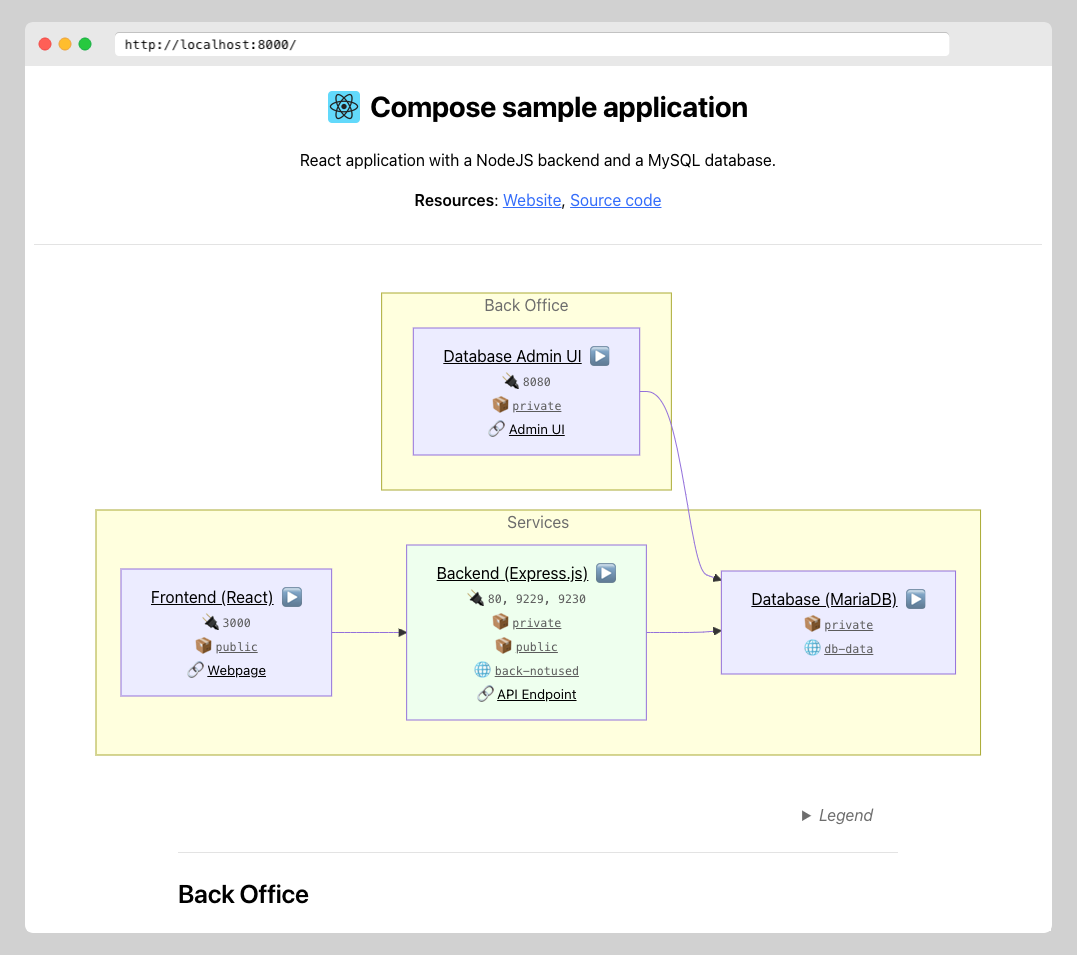
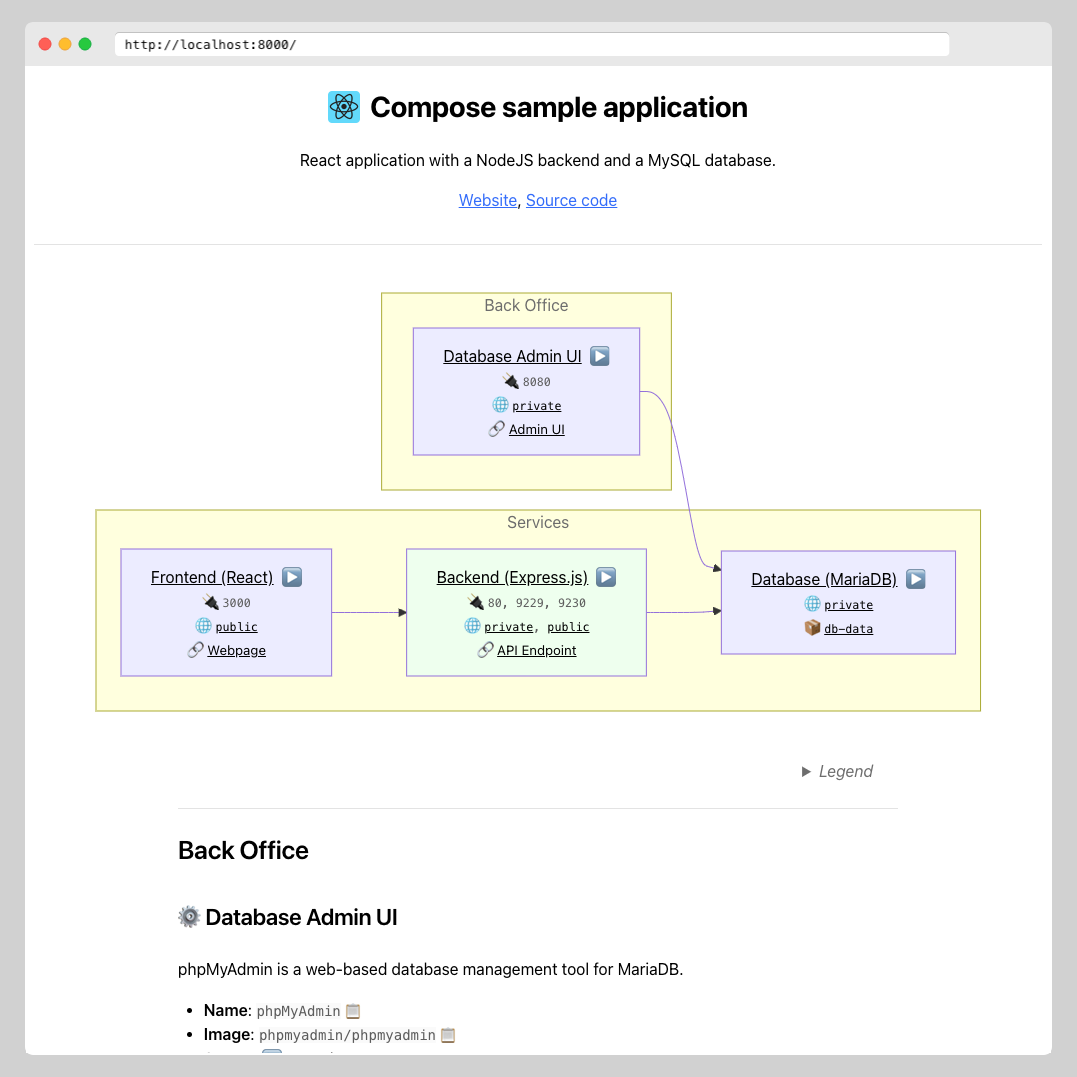
Improved example with larger screenshot.

diff --git a/examples/react-express-mysql/laebel-output.html b/examples/react-express-mysql/laebel-output.html
@@ -17,7 +17,6 @@
         <p>React application with a NodeJS backend and a MySQL database.</p>
         
             <p>
-                <strong>Resources</strong>:
                 <a href="https://docs.docker.com/compose/support-and-feedback/samples-for-compose/">Website</a>,
                 <a href="https://github.com/docker/awesome-compose/tree/master/react-express-mysql">Source code</a>
             </p>
@@ -41,7 +40,7 @@
         
             <section id="graph" hx-trigger="sse:reload" hx-get="/graph.mmd" hx-swap="none" hx-target=".mermaid">
                 
-<pre class="mermaid" data-processed="true"><svg aria-roledescription="flowchart-v2" role="graphics-document document" viewBox="0 0 904.3833618164062 477" style="max-width: 904.3833618164062px;" class="flowchart" xlink="http://www.w3.org/1999/xlink" xmlns="http://www.w3.org/2000/svg" width="100%" id="mermaid-1740960671856"><style>#mermaid-1740960671856{font-family:system-ui,sans-serif;font-size:16px;fill:#333;}#mermaid-1740960671856 .error-icon{fill:#552222;}#mermaid-1740960671856 .error-text{fill:#552222;stroke:#552222;}#mermaid-1740960671856 .edge-thickness-normal{stroke-width:1px;}#mermaid-1740960671856 .edge-thickness-thick{stroke-width:3.5px;}#mermaid-1740960671856 .edge-pattern-solid{stroke-dasharray:0;}#mermaid-1740960671856 .edge-thickness-invisible{stroke-width:0;fill:none;}#mermaid-1740960671856 .edge-pattern-dashed{stroke-dasharray:3;}#mermaid-1740960671856 .edge-pattern-dotted{stroke-dasharray:2;}#mermaid-1740960671856 .marker{fill:#333333;stroke:#333333;}#mermaid-1740960671856 .marker.cross{stroke:#333333;}#mermaid-1740960671856 svg{font-family:system-ui,sans-serif;font-size:16px;}#mermaid-1740960671856 p{margin:0;}#mermaid-1740960671856 .label{font-family:system-ui,sans-serif;color:#333;}#mermaid-1740960671856 .cluster-label text{fill:#333;}#mermaid-1740960671856 .cluster-label span{color:#333;}#mermaid-1740960671856 .cluster-label span p{background-color:transparent;}#mermaid-1740960671856 .label text,#mermaid-1740960671856 span{fill:#333;color:#333;}#mermaid-1740960671856 .node rect,#mermaid-1740960671856 .node circle,#mermaid-1740960671856 .node ellipse,#mermaid-1740960671856 .node polygon,#mermaid-1740960671856 .node path{fill:#ECECFF;stroke:#9370DB;stroke-width:1px;}#mermaid-1740960671856 .rough-node .label text,#mermaid-1740960671856 .node .label text,#mermaid-1740960671856 .image-shape .label,#mermaid-1740960671856 .icon-shape .label{text-anchor:middle;}#mermaid-1740960671856 .node .katex path{fill:#000;stroke:#000;stroke-width:1px;}#mermaid-1740960671856 .rough-node .label,#mermaid-1740960671856 .node .label,#mermaid-1740960671856 .image-shape .label,#mermaid-1740960671856 .icon-shape .label{text-align:center;}#mermaid-1740960671856 .node.clickable{cursor:pointer;}#mermaid-1740960671856 .root .anchor path{fill:#333333!important;stroke-width:0;stroke:#333333;}#mermaid-1740960671856 .arrowheadPath{fill:#333333;}#mermaid-1740960671856 .edgePath .path{stroke:#333333;stroke-width:2.0px;}#mermaid-1740960671856 .flowchart-link{stroke:#333333;fill:none;}#mermaid-1740960671856 .edgeLabel{background-color:rgba(232,232,232, 0.8);text-align:center;}#mermaid-1740960671856 .edgeLabel p{background-color:rgba(232,232,232, 0.8);}#mermaid-1740960671856 .edgeLabel rect{opacity:0.5;background-color:rgba(232,232,232, 0.8);fill:rgba(232,232,232, 0.8);}#mermaid-1740960671856 .labelBkg{background-color:rgba(232, 232, 232, 0.5);}#mermaid-1740960671856 .cluster rect{fill:#ffffde;stroke:#aaaa33;stroke-width:1px;}#mermaid-1740960671856 .cluster text{fill:#333;}#mermaid-1740960671856 .cluster span{color:#333;}#mermaid-1740960671856 div.mermaidTooltip{position:absolute;text-align:center;max-width:200px;padding:2px;font-family:system-ui,sans-serif;font-size:12px;background:hsl(80, 100%, 96.2745098039%);border:1px solid #aaaa33;border-radius:2px;pointer-events:none;z-index:100;}#mermaid-1740960671856 .flowchartTitleText{text-anchor:middle;font-size:18px;fill:#333;}#mermaid-1740960671856 rect.text{fill:none;stroke-width:0;}#mermaid-1740960671856 .icon-shape,#mermaid-1740960671856 .image-shape{background-color:rgba(232,232,232, 0.8);text-align:center;}#mermaid-1740960671856 .icon-shape p,#mermaid-1740960671856 .image-shape p{background-color:rgba(232,232,232, 0.8);padding:2px;}#mermaid-1740960671856 .icon-shape rect,#mermaid-1740960671856 .image-shape rect{opacity:0.5;background-color:rgba(232,232,232, 0.8);fill:rgba(232,232,232, 0.8);}#mermaid-1740960671856 :root{--mermaid-font-family:system-ui,sans-serif;}</style><g><marker orient="auto" markerHeight="8" markerWidth="8" markerUnits="userSpaceOnUse" refY="5" refX="5" viewBox="0 0 10 10" class="marker flowchart-v2" id="mermaid-1740960671856_flowchart-v2-pointEnd"><path style="stroke-width: 1px; stroke-dasharray: 1px, 0px;" class="arrowMarkerPath" d="M 0 0 L 10 5 L 0 10 z"></path></marker><marker orient="auto" markerHeight="8" markerWidth="8" markerUnits="userSpaceOnUse" refY="5" refX="4.5" viewBox="0 0 10 10" class="marker flowchart-v2" id="mermaid-1740960671856_flowchart-v2-pointStart"><path style="stroke-width: 1px; stroke-dasharray: 1px, 0px;" class="arrowMarkerPath" d="M 0 5 L 10 10 L 10 0 z"></path></marker><marker orient="auto" markerHeight="11" markerWidth="11" markerUnits="userSpaceOnUse" refY="5" refX="11" viewBox="0 0 10 10" class="marker flowchart-v2" id="mermaid-1740960671856_flowchart-v2-circleEnd"><circle style="stroke-width: 1px; stroke-dasharray: 1px, 0px;" class="arrowMarkerPath" r="5" cy="5" cx="5"></circle></marker><marker orient="auto" markerHeight="11" markerWidth="11" markerUnits="userSpaceOnUse" refY="5" refX="-1" viewBox="0 0 10 10" class="marker flowchart-v2" id="mermaid-1740960671856_flowchart-v2-circleStart"><circle style="stroke-width: 1px; stroke-dasharray: 1px, 0px;" class="arrowMarkerPath" r="5" cy="5" cx="5"></circle></marker><marker orient="auto" markerHeight="11" markerWidth="11" markerUnits="userSpaceOnUse" refY="5.2" refX="12" viewBox="0 0 11 11" class="marker cross flowchart-v2" id="mermaid-1740960671856_flowchart-v2-crossEnd"><path style="stroke-width: 2px; stroke-dasharray: 1px, 0px;" class="arrowMarkerPath" d="M 1,1 l 9,9 M 10,1 l -9,9"></path></marker><marker orient="auto" markerHeight="11" markerWidth="11" markerUnits="userSpaceOnUse" refY="5.2" refX="-1" viewBox="0 0 11 11" class="marker cross flowchart-v2" id="mermaid-1740960671856_flowchart-v2-crossStart"><path style="stroke-width: 2px; stroke-dasharray: 1px, 0px;" class="arrowMarkerPath" d="M 1,1 l 9,9 M 10,1 l -9,9"></path></marker><g class="root"><g class="clusters"><g data-look="classic" id="Services" class="cluster"><rect height="244.5" width="888.3833465576172" y="224.5" x="8" style=""></rect><g transform="translate(421.1666717529297, 224.5)" class="cluster-label"><foreignObject height="24" width="62.05000305175781"><div xmlns="http://www.w3.org/1999/xhtml" style="display: table-cell; white-space: nowrap; line-height: 1.5; max-width: 200px; text-align: center;"><span class="nodeLabel"><p>Services</p></span></div></foreignObject></g></g><g data-look="classic" id="subGraph0" class="cluster"><rect height="196.5" width="290.98333740234375" y="8" x="294.90000915527344" style=""></rect><g transform="translate(398.2583465576172, 8)" class="cluster-label"><foreignObject height="24" width="84.26666259765625"><div xmlns="http://www.w3.org/1999/xhtml" style="display: table-cell; white-space: nowrap; line-height: 1.5; max-width: 200px; text-align: center;"><span class="nodeLabel"><p>Back Office</p></span></div></foreignObject></g></g></g><g class="edgePaths"><path marker-end="url(#mermaid-1740960671856_flowchart-v2-pointEnd)" style="" class="edge-thickness-normal edge-pattern-solid edge-thickness-normal edge-pattern-solid flowchart-link" id="L_phpMyAdmin_db_0" d="M554.383,106.25L559.633,106.25C564.883,106.25,575.383,106.25,584.8,136.146C594.217,166.042,602.55,225.833,608.8,256.475C615.05,287.117,619.217,288.61,622.756,289.877C626.295,291.144,629.206,292.187,630.662,292.709L632.118,293.23"></path><path marker-end="url(#mermaid-1740960671856_flowchart-v2-pointEnd)" style="" class="edge-thickness-normal edge-pattern-solid edge-thickness-normal edge-pattern-solid flowchart-link" id="L_backend_db_1" d="M560.883,346.75L565.05,346.75C569.217,346.75,577.55,346.75,585.883,346.75C594.217,346.75,602.55,346.75,608.8,346.604C615.05,346.458,619.217,346.166,622.718,345.921C626.22,345.676,629.057,345.477,630.475,345.378L631.893,345.278"></path><path marker-end="url(#mermaid-1740960671856_flowchart-v2-pointEnd)" style="" class="edge-thickness-normal edge-pattern-solid edge-thickness-normal edge-pattern-solid flowchart-link" id="L_frontend_backend_2" d="M244.9,346.75L249.067,346.75C253.233,346.75,261.567,346.75,269.9,346.75C278.233,346.75,286.567,346.75,292.817,346.75C299.067,346.75,303.233,346.75,306.733,346.75C310.233,346.75,313.067,346.75,314.483,346.75L315.9,346.75"></path></g><g class="edgeLabels"><g class="edgeLabel"><g transform="translate(0, 0)" class="label"><foreignObject height="0" width="0"><div class="labelBkg" xmlns="http://www.w3.org/1999/xhtml" style="display: table-cell; white-space: nowrap; line-height: 1.5; max-width: 200px; text-align: center;"><span class="edgeLabel"></span></div></foreignObject></g></g><g class="edgeLabel"><g transform="translate(0, 0)" class="label"><foreignObject height="0" width="0"><div class="labelBkg" xmlns="http://www.w3.org/1999/xhtml" style="display: table-cell; white-space: nowrap; line-height: 1.5; max-width: 200px; text-align: center;"><span class="edgeLabel"></span></div></foreignObject></g></g><g class="edgeLabel"><g transform="translate(0, 0)" class="label"><foreignObject height="0" width="0"><div class="labelBkg" xmlns="http://www.w3.org/1999/xhtml" style="display: table-cell; white-space: nowrap; line-height: 1.5; max-width: 200px; text-align: center;"><span class="edgeLabel"></span></div></foreignObject></g></g></g><g class="nodes"><g transform="translate(440.3916778564453, 106.25)" id="flowchart-phpMyAdmin-0" class="node default"><rect height="126.5" width="227.98333740234375" y="-63.25" x="-113.99166870117188" style="" class="basic label-container"></rect><g transform="translate(-83.99166870117188, -48.25)" style="" class="label"><rect></rect><foreignObject height="96.5" width="167.98333740234375"><div xmlns="http://www.w3.org/1999/xhtml" style="display: table-cell; white-space: nowrap; line-height: 1.5; max-width: 200px; text-align: center;"><span class="nodeLabel"><p><a href="#phpMyAdmin-service">Database Admin UI</a><span title="The service is running, but has no health information." class="icon">▶</span></p><div class="details"><small title="Ports exposed by the service" class="ports">🔌 <code>8080</code></small><br><small title="Networks used by the service" class="network">📦 <a href="#private-network"><code>private</code></a></small><br><small title="Links to other services" class="link">🔗 <a title="Web-based database management tool." href="http://localhost:8080/">Admin UI</a></small><br></div><p></p></span></div></foreignObject></g></g><g transform="translate(440.3916778564453, 346.75)" id="flowchart-backend-1" class="node default"><rect height="174.5" width="240.98333740234375" y="-87.25" x="-120.49166870117188" style="" class="basic label-container"></rect><g transform="translate(-90.49166870117188, -72.25)" style="" class="label"><rect></rect><foreignObject height="144.5" width="180.98333740234375"><div xmlns="http://www.w3.org/1999/xhtml" style="display: table-cell; white-space: nowrap; line-height: 1.5; max-width: 200px; text-align: center;"><span class="nodeLabel"><p><a href="#backend-service">Backend (Express.js)</a><span title="The service is running and is healthy. 😀" class="icon healthy">▶</span></p><div class="details"><small title="Ports exposed by the service" class="ports">🔌 <code>80, 9229, 9230</code></small><br><small title="Networks used by the service" class="network">📦 <a href="#private-network"><code>private</code></a></small><br><small title="Networks used by the service" class="network">📦 <a href="#public-network"><code>public</code></a></small><br><small title="Volumes used by the service" class="volume">🌐 <a href="#back-notused-volume"><code>back-notused</code></a></small><br><small title="Links to other services" class="link">🔗 <a title="" href="http://localhost/">API Endpoint</a></small><br></div><p></p></span></div></foreignObject></g></g><g transform="translate(753.6333465576172, 336.75)" id="flowchart-db-2" class="node default"><rect height="102.5" width="235.5" y="-51.25" x="-117.75" style="" class="basic label-container"></rect><g transform="translate(-87.75, -36.25)" style="" class="label"><rect></rect><foreignObject height="72.5" width="175.5"><div xmlns="http://www.w3.org/1999/xhtml" style="display: table-cell; white-space: nowrap; line-height: 1.5; max-width: 200px; text-align: center;"><span class="nodeLabel"><p><a href="#db-service">Database (MariaDB)</a><span title="The service is running, but has no health information." class="icon">▶</span></p><div class="details"><small title="Networks used by the service" class="network">📦 <a href="#private-network"><code>private</code></a></small><br><small title="Volumes used by the service" class="volume">🌐 <a href="#db-data-volume"><code>db-data</code></a></small><br></div><p></p></span></div></foreignObject></g></g><g transform="translate(138.95000457763672, 346.75)" id="flowchart-frontend-3" class="node default"><rect height="126.5" width="211.90000915527344" y="-63.25" x="-105.95000457763672" style="" class="basic label-container"></rect><g transform="translate(-75.95000457763672, -48.25)" style="" class="label"><rect></rect><foreignObject height="96.5" width="151.90000915527344"><div xmlns="http://www.w3.org/1999/xhtml" style="display: table-cell; white-space: nowrap; line-height: 1.5; max-width: 200px; text-align: center;"><span class="nodeLabel"><p><a href="#frontend-service">Frontend (React)</a><span title="The service is running, but has no health information." class="icon">▶</span></p><div class="details"><small title="Ports exposed by the service" class="ports">🔌 <code>3000</code></small><br><small title="Networks used by the service" class="network">📦 <a href="#public-network"><code>public</code></a></small><br><small title="Links to other services" class="link">🔗 <a title="" href="http://localhost:3000/">Webpage</a></small><br></div><p></p></span></div></foreignObject></g></g></g></g></g></svg></pre>
+<pre class="mermaid" data-processed="true"><svg aria-roledescription="flowchart-v2" role="graphics-document document" viewBox="0 0 904.3833618164062 433" style="max-width: 904.3833618164062px;" class="flowchart" xlink="http://www.w3.org/1999/xlink" xmlns="http://www.w3.org/2000/svg" width="100%" id="mermaid-1741122166698"><style>#mermaid-1741122166698{font-family:system-ui,sans-serif;font-size:16px;fill:#333;}#mermaid-1741122166698 .error-icon{fill:#552222;}#mermaid-1741122166698 .error-text{fill:#552222;stroke:#552222;}#mermaid-1741122166698 .edge-thickness-normal{stroke-width:1px;}#mermaid-1741122166698 .edge-thickness-thick{stroke-width:3.5px;}#mermaid-1741122166698 .edge-pattern-solid{stroke-dasharray:0;}#mermaid-1741122166698 .edge-thickness-invisible{stroke-width:0;fill:none;}#mermaid-1741122166698 .edge-pattern-dashed{stroke-dasharray:3;}#mermaid-1741122166698 .edge-pattern-dotted{stroke-dasharray:2;}#mermaid-1741122166698 .marker{fill:#333333;stroke:#333333;}#mermaid-1741122166698 .marker.cross{stroke:#333333;}#mermaid-1741122166698 svg{font-family:system-ui,sans-serif;font-size:16px;}#mermaid-1741122166698 p{margin:0;}#mermaid-1741122166698 .label{font-family:system-ui,sans-serif;color:#333;}#mermaid-1741122166698 .cluster-label text{fill:#333;}#mermaid-1741122166698 .cluster-label span{color:#333;}#mermaid-1741122166698 .cluster-label span p{background-color:transparent;}#mermaid-1741122166698 .label text,#mermaid-1741122166698 span{fill:#333;color:#333;}#mermaid-1741122166698 .node rect,#mermaid-1741122166698 .node circle,#mermaid-1741122166698 .node ellipse,#mermaid-1741122166698 .node polygon,#mermaid-1741122166698 .node path{fill:#ECECFF;stroke:#9370DB;stroke-width:1px;}#mermaid-1741122166698 .rough-node .label text,#mermaid-1741122166698 .node .label text,#mermaid-1741122166698 .image-shape .label,#mermaid-1741122166698 .icon-shape .label{text-anchor:middle;}#mermaid-1741122166698 .node .katex path{fill:#000;stroke:#000;stroke-width:1px;}#mermaid-1741122166698 .rough-node .label,#mermaid-1741122166698 .node .label,#mermaid-1741122166698 .image-shape .label,#mermaid-1741122166698 .icon-shape .label{text-align:center;}#mermaid-1741122166698 .node.clickable{cursor:pointer;}#mermaid-1741122166698 .root .anchor path{fill:#333333!important;stroke-width:0;stroke:#333333;}#mermaid-1741122166698 .arrowheadPath{fill:#333333;}#mermaid-1741122166698 .edgePath .path{stroke:#333333;stroke-width:2.0px;}#mermaid-1741122166698 .flowchart-link{stroke:#333333;fill:none;}#mermaid-1741122166698 .edgeLabel{background-color:rgba(232,232,232, 0.8);text-align:center;}#mermaid-1741122166698 .edgeLabel p{background-color:rgba(232,232,232, 0.8);}#mermaid-1741122166698 .edgeLabel rect{opacity:0.5;background-color:rgba(232,232,232, 0.8);fill:rgba(232,232,232, 0.8);}#mermaid-1741122166698 .labelBkg{background-color:rgba(232, 232, 232, 0.5);}#mermaid-1741122166698 .cluster rect{fill:#ffffde;stroke:#aaaa33;stroke-width:1px;}#mermaid-1741122166698 .cluster text{fill:#333;}#mermaid-1741122166698 .cluster span{color:#333;}#mermaid-1741122166698 div.mermaidTooltip{position:absolute;text-align:center;max-width:200px;padding:2px;font-family:system-ui,sans-serif;font-size:12px;background:hsl(80, 100%, 96.2745098039%);border:1px solid #aaaa33;border-radius:2px;pointer-events:none;z-index:100;}#mermaid-1741122166698 .flowchartTitleText{text-anchor:middle;font-size:18px;fill:#333;}#mermaid-1741122166698 rect.text{fill:none;stroke-width:0;}#mermaid-1741122166698 .icon-shape,#mermaid-1741122166698 .image-shape{background-color:rgba(232,232,232, 0.8);text-align:center;}#mermaid-1741122166698 .icon-shape p,#mermaid-1741122166698 .image-shape p{background-color:rgba(232,232,232, 0.8);padding:2px;}#mermaid-1741122166698 .icon-shape rect,#mermaid-1741122166698 .image-shape rect{opacity:0.5;background-color:rgba(232,232,232, 0.8);fill:rgba(232,232,232, 0.8);}#mermaid-1741122166698 :root{--mermaid-font-family:system-ui,sans-serif;}</style><g><marker orient="auto" markerHeight="8" markerWidth="8" markerUnits="userSpaceOnUse" refY="5" refX="5" viewBox="0 0 10 10" class="marker flowchart-v2" id="mermaid-1741122166698_flowchart-v2-pointEnd"><path style="stroke-width: 1px; stroke-dasharray: 1px, 0px;" class="arrowMarkerPath" d="M 0 0 L 10 5 L 0 10 z"></path></marker><marker orient="auto" markerHeight="8" markerWidth="8" markerUnits="userSpaceOnUse" refY="5" refX="4.5" viewBox="0 0 10 10" class="marker flowchart-v2" id="mermaid-1741122166698_flowchart-v2-pointStart"><path style="stroke-width: 1px; stroke-dasharray: 1px, 0px;" class="arrowMarkerPath" d="M 0 5 L 10 10 L 10 0 z"></path></marker><marker orient="auto" markerHeight="11" markerWidth="11" markerUnits="userSpaceOnUse" refY="5" refX="11" viewBox="0 0 10 10" class="marker flowchart-v2" id="mermaid-1741122166698_flowchart-v2-circleEnd"><circle style="stroke-width: 1px; stroke-dasharray: 1px, 0px;" class="arrowMarkerPath" r="5" cy="5" cx="5"></circle></marker><marker orient="auto" markerHeight="11" markerWidth="11" markerUnits="userSpaceOnUse" refY="5" refX="-1" viewBox="0 0 10 10" class="marker flowchart-v2" id="mermaid-1741122166698_flowchart-v2-circleStart"><circle style="stroke-width: 1px; stroke-dasharray: 1px, 0px;" class="arrowMarkerPath" r="5" cy="5" cx="5"></circle></marker><marker orient="auto" markerHeight="11" markerWidth="11" markerUnits="userSpaceOnUse" refY="5.2" refX="12" viewBox="0 0 11 11" class="marker cross flowchart-v2" id="mermaid-1741122166698_flowchart-v2-crossEnd"><path style="stroke-width: 2px; stroke-dasharray: 1px, 0px;" class="arrowMarkerPath" d="M 1,1 l 9,9 M 10,1 l -9,9"></path></marker><marker orient="auto" markerHeight="11" markerWidth="11" markerUnits="userSpaceOnUse" refY="5.2" refX="-1" viewBox="0 0 11 11" class="marker cross flowchart-v2" id="mermaid-1741122166698_flowchart-v2-crossStart"><path style="stroke-width: 2px; stroke-dasharray: 1px, 0px;" class="arrowMarkerPath" d="M 1,1 l 9,9 M 10,1 l -9,9"></path></marker><g class="root"><g class="clusters"><g data-look="classic" id="Services" class="cluster"><rect height="200.5" width="888.3833465576172" y="224.5" x="8" style=""></rect><g transform="translate(421.1666717529297, 224.5)" class="cluster-label"><foreignObject height="24" width="62.05000305175781"><div xmlns="http://www.w3.org/1999/xhtml" style="display: table-cell; white-space: nowrap; line-height: 1.5; max-width: 200px; text-align: center;"><span class="nodeLabel"><p>Services</p></span></div></foreignObject></g></g><g data-look="classic" id="subGraph0" class="cluster"><rect height="196.5" width="290.98333740234375" y="8" x="294.90000915527344" style=""></rect><g transform="translate(398.2583465576172, 8)" class="cluster-label"><foreignObject height="24" width="84.26666259765625"><div xmlns="http://www.w3.org/1999/xhtml" style="display: table-cell; white-space: nowrap; line-height: 1.5; max-width: 200px; text-align: center;"><span class="nodeLabel"><p>Back Office</p></span></div></foreignObject></g></g></g><g class="edgePaths"><path marker-end="url(#mermaid-1741122166698_flowchart-v2-pointEnd)" style="" class="edge-thickness-normal edge-pattern-solid edge-thickness-normal edge-pattern-solid flowchart-link" id="L_phpMyAdmin_db_0" d="M554.383,106.25L559.633,106.25C564.883,106.25,575.383,106.25,584.8,134.813C594.217,163.375,602.55,220.5,608.8,249.634C615.05,278.767,619.217,279.909,622.74,280.875C626.264,281.841,629.145,282.63,630.585,283.025L632.026,283.42"></path><path marker-end="url(#mermaid-1741122166698_flowchart-v2-pointEnd)" style="" class="edge-thickness-normal edge-pattern-solid edge-thickness-normal edge-pattern-solid flowchart-link" id="L_backend_db_1" d="M560.883,326.75L565.05,326.75C569.217,326.75,577.55,326.75,585.883,326.75C594.217,326.75,602.55,326.75,608.8,326.604C615.05,326.458,619.217,326.166,622.718,325.921C626.22,325.676,629.057,325.477,630.475,325.378L631.893,325.278"></path><path marker-end="url(#mermaid-1741122166698_flowchart-v2-pointEnd)" style="" class="edge-thickness-normal edge-pattern-solid edge-thickness-normal edge-pattern-solid flowchart-link" id="L_frontend_backend_2" d="M244.9,326.75L249.067,326.75C253.233,326.75,261.567,326.75,269.9,326.75C278.233,326.75,286.567,326.75,292.817,326.75C299.067,326.75,303.233,326.75,306.733,326.75C310.233,326.75,313.067,326.75,314.483,326.75L315.9,326.75"></path></g><g class="edgeLabels"><g class="edgeLabel"><g transform="translate(0, 0)" class="label"><foreignObject height="0" width="0"><div class="labelBkg" xmlns="http://www.w3.org/1999/xhtml" style="display: table-cell; white-space: nowrap; line-height: 1.5; max-width: 200px; text-align: center;"><span class="edgeLabel"></span></div></foreignObject></g></g><g class="edgeLabel"><g transform="translate(0, 0)" class="label"><foreignObject height="0" width="0"><div class="labelBkg" xmlns="http://www.w3.org/1999/xhtml" style="display: table-cell; white-space: nowrap; line-height: 1.5; max-width: 200px; text-align: center;"><span class="edgeLabel"></span></div></foreignObject></g></g><g class="edgeLabel"><g transform="translate(0, 0)" class="label"><foreignObject height="0" width="0"><div class="labelBkg" xmlns="http://www.w3.org/1999/xhtml" style="display: table-cell; white-space: nowrap; line-height: 1.5; max-width: 200px; text-align: center;"><span class="edgeLabel"></span></div></foreignObject></g></g></g><g class="nodes"><g transform="translate(440.3916778564453, 106.25)" id="flowchart-phpMyAdmin-0" class="node default"><rect height="126.5" width="227.98333740234375" y="-63.25" x="-113.99166870117188" style="" class="basic label-container"></rect><g transform="translate(-83.99166870117188, -48.25)" style="" class="label"><rect></rect><foreignObject height="96.5" width="167.98333740234375"><div xmlns="http://www.w3.org/1999/xhtml" style="display: table-cell; white-space: nowrap; line-height: 1.5; max-width: 200px; text-align: center;"><span class="nodeLabel"><p><a href="#phpMyAdmin-service">Database Admin UI</a><span title="The service is running, but has no health information." class="icon">▶</span></p><div class="details"><small title="Ports exposed by the service" class="ports">🔌 <code>8080</code></small><br><small title="Networks used by the service" class="network">🌐 <code><a href="#private-network">private</a></code></small><br><small title="Links to other services" class="link">🔗 <a title="Web-based database management tool." href="http://localhost:8080/">Admin UI</a></small><br></div><p></p></span></div></foreignObject></g></g><g transform="translate(440.3916778564453, 326.75)" id="flowchart-backend-1" class="node default"><rect height="126.5" width="240.98333740234375" y="-63.25" x="-120.49166870117188" style="" class="basic label-container"></rect><g transform="translate(-90.49166870117188, -48.25)" style="" class="label"><rect></rect><foreignObject height="96.5" width="180.98333740234375"><div xmlns="http://www.w3.org/1999/xhtml" style="display: table-cell; white-space: nowrap; line-height: 1.5; max-width: 200px; text-align: center;"><span class="nodeLabel"><p><a href="#backend-service">Backend (Express.js)</a><span title="The service is running and is healthy. 😀" class="icon healthy">▶</span></p><div class="details"><small title="Ports exposed by the service" class="ports">🔌 <code>80, 9229, 9230</code></small><br><small title="Networks used by the service" class="network">🌐 <code><a href="#private-network">private</a>, <a href="#public-network">public</a></code></small><br><small title="Links to other services" class="link">🔗 <a title="" href="http://localhost/">API Endpoint</a></small><br></div><p></p></span></div></foreignObject></g></g><g transform="translate(753.6333465576172, 316.75)" id="flowchart-db-2" class="node default"><rect height="102.5" width="235.5" y="-51.25" x="-117.75" style="" class="basic label-container"></rect><g transform="translate(-87.75, -36.25)" style="" class="label"><rect></rect><foreignObject height="72.5" width="175.5"><div xmlns="http://www.w3.org/1999/xhtml" style="display: table-cell; white-space: nowrap; line-height: 1.5; max-width: 200px; text-align: center;"><span class="nodeLabel"><p><a href="#db-service">Database (MariaDB)</a><span title="The service is running, but has no health information." class="icon">▶</span></p><div class="details"><small title="Networks used by the service" class="network">🌐 <code><a href="#private-network">private</a></code></small><br><small title="Volumes used by the service" class="volume">📦 <code><a href="#db-data-volume">db-data</a></code></small><br></div><p></p></span></div></foreignObject></g></g><g transform="translate(138.95000457763672, 326.75)" id="flowchart-frontend-3" class="node default"><rect height="126.5" width="211.90000915527344" y="-63.25" x="-105.95000457763672" style="" class="basic label-container"></rect><g transform="translate(-75.95000457763672, -48.25)" style="" class="label"><rect></rect><foreignObject height="96.5" width="151.90000915527344"><div xmlns="http://www.w3.org/1999/xhtml" style="display: table-cell; white-space: nowrap; line-height: 1.5; max-width: 200px; text-align: center;"><span class="nodeLabel"><p><a href="#frontend-service">Frontend (React)</a><span title="The service is running, but has no health information." class="icon">▶</span></p><div class="details"><small title="Ports exposed by the service" class="ports">🔌 <code>3000</code></small><br><small title="Networks used by the service" class="network">🌐 <code><a href="#public-network">public</a></code></small><br><small title="Links to other services" class="link">🔗 <a title="" href="http://localhost:3000/">Webpage</a></small><br></div><p></p></span></div></foreignObject></g></g></g></g></g></svg></pre>
 
 
 
@@ -150,14 +149,14 @@
                 </tr>
                 </thead>
                 
-                    <tbody><tr class="container" id="3253916043e3">
-                        <td><code>3253916043e3</code> 
+                    <tbody><tr class="container" id="dd50b4f52ca2">
+                        <td><code>dd50b4f52ca2</code> 
 <span class="clipboard" onclick="copyPreviousText(this)">📋</span>
 </td>
-                        <td><code>5dc1b19869cc_react-express-mysql-phpMyAdmin-1</code> 
+                        <td><code>react-express-mysql-phpMyAdmin-1</code> 
 <span class="clipboard" onclick="copyPreviousText(this)">📋</span>
 </td>
-                        <td>2025-03-03 00:10:16</td>
+                        <td>2025-03-04 20:43:27</td>
                         <td>running</td>
                     </tr>
                 
@@ -210,10 +209,6 @@
                 </li>
             
             
-                <li class="volumes">
-                    <strong>Volumes</strong>: <ul><li><a href="#back-notused-volume"><code>back-notused</code></a>: Backend Storage (Currently Not Used)</li></ul>
-                </li>
-            
         </ul>
         <details class="containers">
             
@@ -228,14 +223,14 @@
                 </tr>
                 </thead>
                 
-                    <tbody><tr class="container" id="9cbaaed59a57">
-                        <td><code>9cbaaed59a57</code> 
+                    <tbody><tr class="container" id="20cf80606dc6">
+                        <td><code>20cf80606dc6</code> 
 <span class="clipboard" onclick="copyPreviousText(this)">📋</span>
 </td>
                         <td><code>react-express-mysql-backend-1</code> 
 <span class="clipboard" onclick="copyPreviousText(this)">📋</span>
 </td>
-                        <td>2025-03-02 23:46:19</td>
+                        <td>2025-03-04 21:01:46</td>
                         <td>running (healthy)</td>
                     </tr>
                 
@@ -290,14 +285,14 @@
                 </tr>
                 </thead>
                 
-                    <tbody><tr class="container" id="32146587232b">
-                        <td><code>32146587232b</code> 
+                    <tbody><tr class="container" id="4dfe9ee5b626">
+                        <td><code>4dfe9ee5b626</code> 
 <span class="clipboard" onclick="copyPreviousText(this)">📋</span>
 </td>
                         <td><code>react-express-mysql-db-1</code> 
 <span class="clipboard" onclick="copyPreviousText(this)">📋</span>
 </td>
-                        <td>2025-03-02 23:46:19</td>
+                        <td>2025-03-04 20:43:27</td>
                         <td>running</td>
                     </tr>
                 
@@ -359,14 +354,14 @@
                 </tr>
                 </thead>
                 
-                    <tbody><tr class="container" id="a1e4b8412b29">
-                        <td><code>a1e4b8412b29</code> 
+                    <tbody><tr class="container" id="153736c08424">
+                        <td><code>153736c08424</code> 
 <span class="clipboard" onclick="copyPreviousText(this)">📋</span>
 </td>
                         <td><code>react-express-mysql-frontend-1</code> 
 <span class="clipboard" onclick="copyPreviousText(this)">📋</span>
 </td>
-                        <td>2025-03-02 23:46:19</td>
+                        <td>2025-03-04 20:43:27</td>
                         <td>running</td>
                     </tr>
                 
@@ -451,15 +446,6 @@
             </li><li class="driver">
                 <strong>Driver</strong>: <code>local</code>
             </li>
-            
-                <li class="services">
-                    <strong>Services</strong>:
-                    <ul>
-                        
-                            <li><a href="#backend-service"><code>backend</code></a></li>
-                        
-                    </ul>
-                </li>
             
         </ul>
     </section>

diff --git a/examples/react-express-mysql/laebel-output_files/styles.css b/examples/react-express-mysql/laebel-output_files/styles.css
@@ -226,6 +226,14 @@ a + .icon {
     font-style: italic;
 }
 
+.volume .title::before {
+    content: "📦 ";
+}
+
+.network .title::before {
+    content: "🌐 ";
+}
+
 /*
 NOTICE
 */
